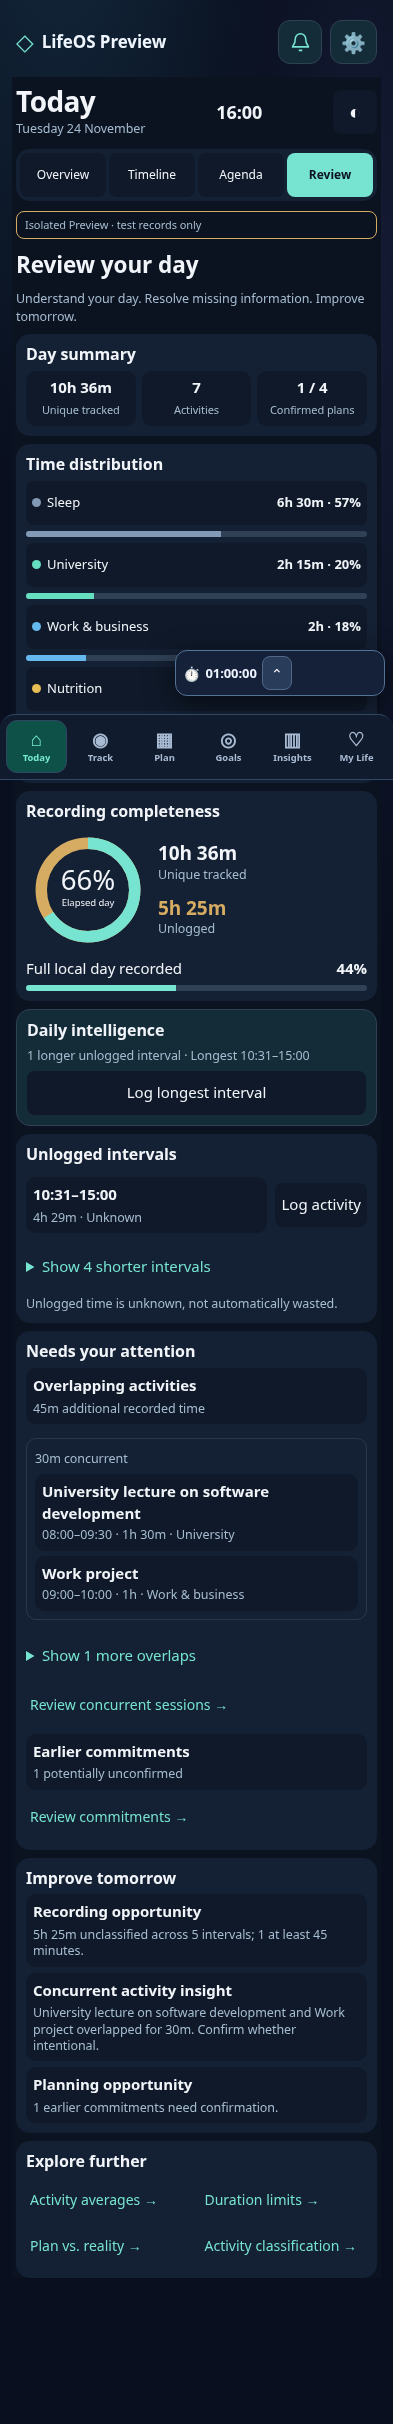
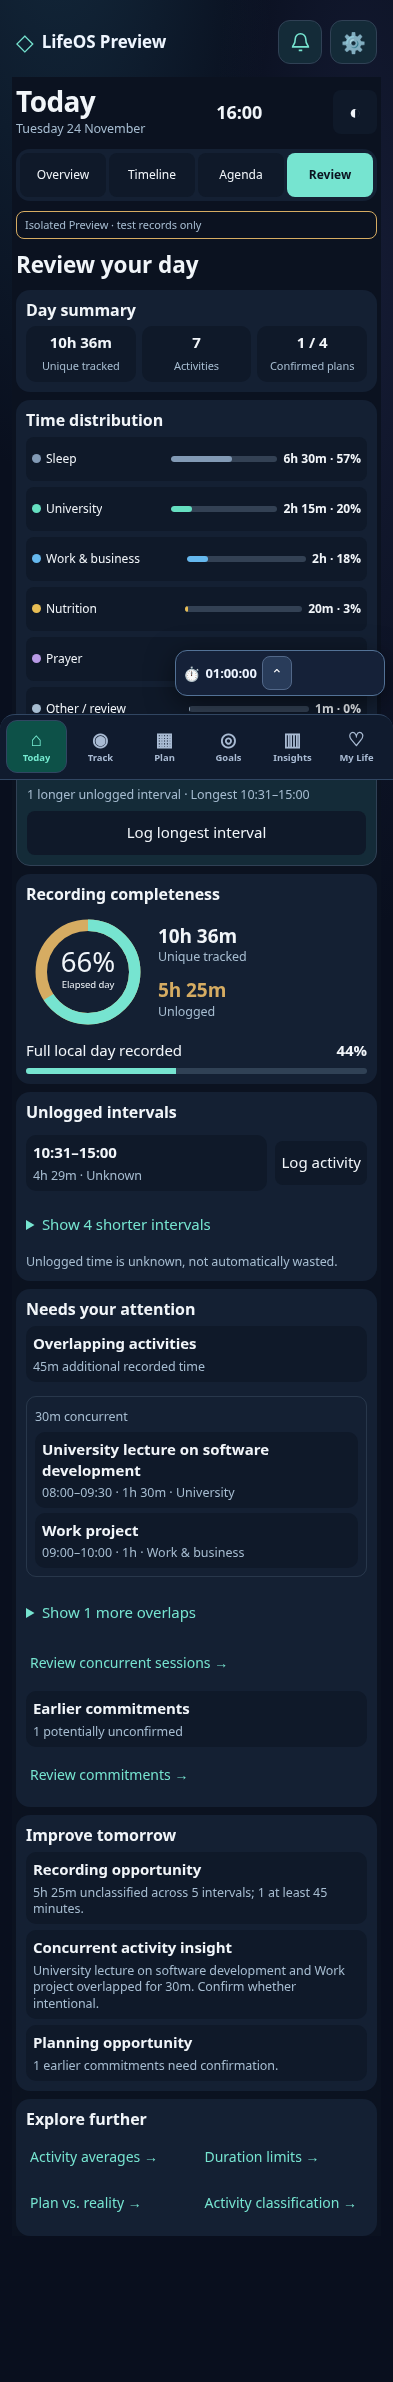
Make Today review categories compact and accessible

diff --git a/index.html b/index.html
@@ -5848,8 +5848,8 @@ function render(force=false){
  const agendaHabits=card('Habits today',row('Completed',dueHabits.filter(h=>habitChecks.has(String(h.id))).length+' / '+dueHabits.length)+(habitRows||item('No habits scheduled today',''))+'<p id="apHabitMessage" class="ap-v1-habit-message" role="status">'+esc(habitMessage)+'</p><button class="ap-link" type="button" data-ap-live-quick="habits">'+(dueHabits.length>3?'View all habits':'Open habits')+' →</button>');
  const activityCount=new Set(d.recorded.map(x=>String(x.id))).size;
  const reviewSummary=card('Day summary',grid([metric(dur(m.unique),'Unique tracked'),metric(String(activityCount),'Activities'),metric(todayPlans.length?confirmedPlans+' / '+todayPlans.length:'—','Confirmed plans')]));
- const reviewCategory=c=>'<button type="button" class="ap-v1-review-category" data-ap-live-reviewcat="'+esc(c.name)+'"><span><i style="background:'+(colors[c.name]||'#a6bcd0')+'"></i>'+esc(c.name)+'</span><strong>'+dur(c.durationMs)+' · '+Math.round(c.durationMs/m.total*100)+'%</strong></button><div class="ap-bar"><i style="width:'+(c.durationMs/m.total*100)+'%;background:'+(colors[c.name]||'#a6bcd0')+'"></i></div>';
- const reviewDistribution=card('Time distribution',(d.categories.slice(0,4).map(reviewCategory).join('')||item('No recorded activities',''))+(d.categories.length>4?'<details><summary>Show '+(d.categories.length-4)+' more categories</summary>'+d.categories.slice(4).map(reviewCategory).join('')+'</details>':''));
+ const reviewCategory=c=>{const color=colors[c.name]||'#a6bcd0',share=Math.round(c.durationMs/m.total*100),label=c.name+' · '+dur(c.durationMs)+' · '+share+'%';return '<button type="button" class="ap-v1-review-category" data-ap-live-reviewcat="'+esc(c.name)+'" aria-label="'+esc(label)+'"><span class="ap-v1-review-label" title="'+esc(c.name)+'"><i style="background:'+color+'"></i><span>'+esc(c.name)+'</span></span><span class="ap-v1-review-track" aria-hidden="true"><i style="width:'+(c.durationMs/m.total*100)+'%;background:'+color+'"></i></span><strong>'+dur(c.durationMs)+' · '+share+'%</strong></button>'};
+ const reviewDistribution=card('Time distribution',(d.categories.slice(0,6).map(reviewCategory).join('')||item('No recorded activities',''))+(d.categories.length>6?'<details><summary>Show '+(d.categories.length-6)+' more categories</summary>'+d.categories.slice(6).map(reviewCategory).join('')+'</details>':''));
  set(0,'<div class="ap-v1-pair">'+card('Day progress','<div class="ap-v1-day-summary">'+dayRing+'<div>'+metric(dur(m.elapsed),'Elapsed')+metric(dur(m.remaining),'Remaining')+'</div></div>')+glance+'</div><div class="ap-v1-current">'+nowCard+'</div><div class="ap-v1-pair">'+progress+distribution+'</div><div class="ap-v1-pair">'+lifeAreas+dailyIntel+'</div>'+quick+card('Your day, in four parts',grid(['Morning','Afternoon','Evening','Night'].map((n,i)=>'<button data-ap-live-part="'+i+'" class="'+(i===part?'ap-selected':'')+'"><span class="ap-part-icon">'+['☀','◐','☾','✦'][i]+'</span><strong>'+partRows[i].length+'</strong><small>'+n+'</small></button>'),'ap-four')+ (partRows[part].map(activity).join('')||item('No recorded activities','')))+card('Next on your agenda',future.slice(0,2).map(x=>row(esc(x.name),clock(x.startAt))).join('')||item('No upcoming commitments',''))+card('Your priorities',(tasks[0]?task(tasks[0]):item('No open tasks',''))+link('View tasks',2)));
  {
  const d=timelineSnapshot,m=d.metrics,p=pct(m.unique,m.dayLength),q=pct(m.unique,m.elapsed),active=d.active,first=active[0],next=timelineDayAt!==null?null:future[0],longest=d.gaps.reduce((a,b)=>!a||b.b-b.a>a.b-a.a?b:a,null);
@@ -5891,7 +5891,7 @@ function render(force=false){
  for(const x of list){if(free&&day===0&&x.startAt>cursor)journeyHtml+=journey('',dur(x.startAt-cursor)+' '+'unscheduled time',clock(cursor)+'–'+clock(x.startAt),true);journeyHtml+='<div class="ap-journey"><small>'+clock(x.startAt)+'</small>'+detail('<strong>'+esc(x.name)+'</strong><small>'+clock(x.startAt)+'–'+clock(x.endAt)+(x.startAt<cursor?' · Overlapping commitment':'')+'</small>','plan',x.id,x.startAt)+'</div>';cursor=Math.max(cursor,x.endAt)}
  if(free&&day===0&&cursor<d.end)journeyHtml+=journey('',dur(d.end-cursor)+' '+'unscheduled time',clock(cursor)+'–00:00',true);
  set(2,card('<span class="ap-kicker">NEXT UP</span>',next?'<h2>'+esc(next.name)+'</h2><small>'+clock(next.startAt)+'–'+clock(next.endAt)+' · In '+dur(next.startAt-d.at)+'</small>'+grid([action('Start now','start-plan',next.id),action('Remind me','reminder',next.id)],'ap-two'):item('No upcoming commitments',''),'ap-now')+agendaTasks+agendaHabits+card('Your upcoming journey','<label><input type="checkbox" data-ap-live-free '+(free?'checked':'')+'> Show unscheduled windows</label>'+grid(['Today','Tomorrow','Upcoming'].map((x,i)=>'<button data-ap-live-day="'+i+'" class="'+(day===i?'ap-selected':'')+'" aria-pressed="'+(day===i)+'">'+x+'</button>'))+(journeyHtml||item('No commitments',''))+nav('Open full calendar','schedule'))+card('Needs your attention',(overdueTasks[0]?task(overdueTasks[0]):item('No overdue tasks',''))+'<details><summary>Show '+Math.max(0,overdueTasks.length-1)+' more overdue tasks</summary>'+overdueTasks.slice(1).map(task).join('')+'</details><details><summary>Show '+otherOpenTasks.length+' other open tasks</summary>'+otherOpenTasks.map(task).join('')+'</details><details><summary>Earlier commitments · '+earlier.length+'</summary>'+earlier.map(x=>detail('<strong>'+esc(x.name)+'</strong><small>Unverified · '+clock(x.startAt)+'</small>','plan',x.id,x.startAt)).join('')+'</details>'));
- set(3,'<h2>Review your day</h2><small>Understand your day. Resolve missing information. Improve tomorrow.</small>'+reviewSummary+reviewDistribution+card('Recording completeness','<div class="ap-row"><svg style="width:124px" viewBox="0 0 130 130"><circle cx="65" cy="65" r="49" fill="none" stroke="#d6ac62" stroke-width="12"/><circle cx="65" cy="65" r="49" fill="none" stroke="var(--ap-accent)" stroke-width="12" pathLength="100" stroke-dasharray="'+q+' '+(100-q)+'" transform="rotate(-90 65 65)"/><text x="65" y="65" text-anchor="middle" font-size="29" fill="currentColor">'+q+'%</text><text x="65" y="82" text-anchor="middle" font-size="10" fill="currentColor">Elapsed day</text></svg><div class="ap-review-metrics">'+metric(dur(m.unique),'Unique tracked')+metric(dur(m.unlogged),'Unlogged')+'</div></div>'+row('Full local day recorded',p+'%')+'<div class="ap-bar"><i style="width:'+p+'%"></i></div>')+card('Daily intelligence','<small>'+intelligence+'</small>'+(longest?action('Log longest interval','gap',longest.a+':'+longest.b):''),'ap-now')+card('Unlogged intervals',long.map(gapItem).join('')+'<details><summary>Show '+(d.gaps.length-long.length)+' shorter intervals</summary>'+d.gaps.filter(g=>g.b-g.a<45*60000).map(gapItem).join('')+'</details><small>Unlogged time is unknown, not automatically wasted.</small>')+card('Needs your attention',item('Overlapping activities',dur(m.overlap)+' additional recorded time')+pairs.slice(0,1).map(z=>'<div class="ap-v250-overlap"><small>'+dur(z.ms)+' concurrent</small>'+activity(z.x)+activity(z.y)+'</div>').join('')+(pairs.length>1?'<details><summary>Show '+(pairs.length-1)+' more overlaps</summary>'+pairs.slice(1).map(z=>'<div class="ap-v250-overlap"><small>'+dur(z.ms)+' concurrent</small>'+activity(z.x)+activity(z.y)+'</div>').join('')+'</details>':'')+link('Review concurrent sessions',1)+item('Earlier commitments',earlier.length+' potentially unconfirmed')+link('Review commitments',2))+card('Improve tomorrow',item('Recording opportunity',longest?dur(m.unlogged)+' unclassified across '+d.gaps.length+' intervals; '+long.length+' at least 45 minutes.':'No missing interval detected.')+(pairs.length?item('Concurrent activity insight',esc(pairs[0].x.name)+' and '+esc(pairs[0].y.name)+' overlapped for '+dur(pairs[0].ms)+'. Confirm whether intentional.'):'')+item('Planning opportunity',earlier.length?earlier.length+' earlier commitments need confirmation.':'Insufficient confirmed plan-to-actual matches for a scheduling assessment.'))+card('Explore further','<div class="ap-v250-shortcuts">'+nav('Activity averages','analytics')+nav('Duration limits','analytics')+nav('Plan vs. reality','analytics')+nav('Activity classification','analytics')+'</div>'));
+ set(3,'<h2>Review your day</h2>'+reviewSummary+reviewDistribution+card('Daily intelligence','<small>'+intelligence+'</small>'+(longest?action('Log longest interval','gap',longest.a+':'+longest.b):''),'ap-now')+card('Recording completeness','<div class="ap-row"><svg style="width:124px" viewBox="0 0 130 130"><circle cx="65" cy="65" r="49" fill="none" stroke="#d6ac62" stroke-width="12"/><circle cx="65" cy="65" r="49" fill="none" stroke="var(--ap-accent)" stroke-width="12" pathLength="100" stroke-dasharray="'+q+' '+(100-q)+'" transform="rotate(-90 65 65)"/><text x="65" y="65" text-anchor="middle" font-size="29" fill="currentColor">'+q+'%</text><text x="65" y="82" text-anchor="middle" font-size="10" fill="currentColor">Elapsed day</text></svg><div class="ap-review-metrics">'+metric(dur(m.unique),'Unique tracked')+metric(dur(m.unlogged),'Unlogged')+'</div></div>'+row('Full local day recorded',p+'%')+'<div class="ap-bar"><i style="width:'+p+'%"></i></div>')+card('Unlogged intervals',long.map(gapItem).join('')+'<details><summary>Show '+(d.gaps.length-long.length)+' shorter intervals</summary>'+d.gaps.filter(g=>g.b-g.a<45*60000).map(gapItem).join('')+'</details><small>Unlogged time is unknown, not automatically wasted.</small>')+card('Needs your attention',item('Overlapping activities',dur(m.overlap)+' additional recorded time')+pairs.slice(0,1).map(z=>'<div class="ap-v250-overlap"><small>'+dur(z.ms)+' concurrent</small>'+activity(z.x)+activity(z.y)+'</div>').join('')+(pairs.length>1?'<details><summary>Show '+(pairs.length-1)+' more overlaps</summary>'+pairs.slice(1).map(z=>'<div class="ap-v250-overlap"><small>'+dur(z.ms)+' concurrent</small>'+activity(z.x)+activity(z.y)+'</div>').join('')+'</details>':'')+link('Review concurrent sessions',1)+item('Earlier commitments',earlier.length+' potentially unconfirmed')+link('Review commitments',2))+card('Improve tomorrow',item('Recording opportunity',longest?dur(m.unlogged)+' unclassified across '+d.gaps.length+' intervals; '+long.length+' at least 45 minutes.':'No missing interval detected.')+(pairs.length?item('Concurrent activity insight',esc(pairs[0].x.name)+' and '+esc(pairs[0].y.name)+' overlapped for '+dur(pairs[0].ms)+'. Confirm whether intentional.'):'')+item('Planning opportunity',earlier.length?earlier.length+' earlier commitments need confirmation.':'Insufficient confirmed plan-to-actual matches for a scheduling assessment.'))+card('Explore further','<div class="ap-v250-shortcuts">'+nav('Activity averages','analytics')+nav('Duration limits','analytics')+nav('Plan vs. reality','analytics')+nav('Activity classification','analytics')+'</div>'));
 }
 root.addEventListener('click',e=>{const detail=e.target.closest('[data-ap-detail]');if(detail){window.lifeosTrackOpenTodayItem?.(detail.dataset.apDetail,detail.dataset.apKey,Number(detail.dataset.apAt));return}const b=e.target.closest('button');if(!b)return;const x=b.dataset;if(x.apLiveReviewcat){selected=x.apLiveReviewcat;document.getElementById('apTab1')?.click();render(true);return}if(x.apLiveTask){openTask(x.apLiveTask);return}if(x.apLiveQuick){openQuick(x.apLiveQuick);return}if(x.apLiveAction){if(x.apLiveAction==='unknown')return;if(x.apLiveAction==='focus'){document.querySelector('#lifeosNavigation [data-view="tracking"]')?.click();setTimeout(()=>{const b=document.querySelector('#loTrackConceptA [data-ca-sheet="focus"]');if(b)b.click();else alert('Open Focus Mode from Track Live.');},150);return}if(x.apLiveAction==='finish'&&!confirm('Finish this activity?'))return;if(x.apLiveAction==='start-plan'&&!confirm('Start this planned activity now?'))return;const ok=window.lifeosTodayAPlusAction(x.apLiveAction,x.apLiveId);if(ok===null)return;if(!ok){if(x.apLiveAction==='gap'){let message=b.parentElement.querySelector('.ap-v250-gap-error');if(!message){message=document.createElement('small');message.className='ap-v250-gap-error';message.setAttribute('role','status');b.parentElement.append(message)}message.textContent='This interval changed. Select a remaining gap and try again.';return}alert('Action not saved. Existing records retained.');return}if(x.apLiveAction==='reminder')alert('Scheduled reminder enabled. Delivery depends on device permissions.');render(true);return}if(x.apLiveNav){document.querySelector('#lifeosNavigation [data-view="'+x.apLiveNav+'"]')?.click();return}if(x.apLivePart!==undefined)part=Number(x.apLivePart);else if(x.apLivePeriod!==undefined){if(x.apLivePeriod==='now'){timelineDayAt=null;period=null}else period=Number(x.apLivePeriod)}else if(x.apLiveDate!==undefined){const date=new Date(timelineDayAt??snapshot.start);date.setDate(date.getDate()+Number(x.apLiveDate));timelineDayAt=date.getTime()>=snapshot.start?null:date.getTime();period=null}else if(x.apLiveDay!==undefined)day=Number(x.apLiveDay);else if(x.apLiveCat!==undefined)selected=selected===x.apLiveCat?'':x.apLiveCat;else return;render(true)});
 root.addEventListener('keydown',e=>{const target=e.target.closest('svg [data-ap-detail]');if(target&&(e.key==='Enter'||e.key===' ')){e.preventDefault();target.dispatchEvent(new MouseEvent('click',{bubbles:true}))}});
@@ -5970,10 +5970,13 @@ body.ap-today #todayAPlus.ap-light .ap-v1-agenda-task input:checked{background:#
 body.ap-today #todayAPlus .ap-v1-agenda-task .ap-v1-done{text-decoration:line-through;color:var(--ap-muted)}
 body.ap-today #todayAPlus .ap-v1-agenda-task button{min-width:44px;font-size:20px}
 body.ap-today #todayAPlus .ap-v1-habit-message{margin:0;color:#ffb8bb;font-size:12px;line-height:1.4}body.ap-today #todayAPlus .ap-v1-habit-message:empty{display:none}body.ap-today #todayAPlus.ap-light .ap-v1-habit-message{color:#a12c35}
-body.ap-today #todayAPlus .ap-v1-review-category{display:flex;align-items:center;justify-content:space-between;gap:8px;min-width:0;text-align:left;font-size:13px}
-body.ap-today #todayAPlus .ap-v1-review-category span{display:flex;align-items:center;gap:6px;min-width:0}
-body.ap-today #todayAPlus .ap-v1-review-category span i{width:9px;height:9px;border-radius:50%;flex:none}
-body.ap-today #todayAPlus .ap-v1-review-category strong{white-space:nowrap}
+body.ap-today #todayAPlus .ap-v1-review-category{display:grid;grid-template-columns:minmax(74px,1fr) minmax(36px,.8fr) auto;align-items:center;gap:6px;min-width:0;min-height:44px;padding:4px 6px;text-align:left;font-size:12px}
+body.ap-today #todayAPlus .ap-v1-review-label{display:flex;align-items:center;gap:5px;min-width:0}
+body.ap-today #todayAPlus .ap-v1-review-label>i{width:9px;height:9px;border-radius:50%;flex:none}
+body.ap-today #todayAPlus .ap-v1-review-label>span{overflow:hidden;text-overflow:ellipsis;white-space:nowrap}
+body.ap-today #todayAPlus .ap-v1-review-track{display:block;min-width:0;height:6px;border-radius:8px;overflow:hidden;background:#52657a88}
+body.ap-today #todayAPlus .ap-v1-review-track>i{display:block;height:100%;border-radius:inherit}
+body.ap-today #todayAPlus .ap-v1-review-category strong{white-space:nowrap;font-size:12px}
 body.ap-today #todayAPlus .ap-v1-period-accounting{padding:9px;background:var(--ap-inset);border-radius:10px;display:grid;gap:6px}
 body.ap-today #todayAPlus .ap-v1-period-accounting>strong{font-size:13px}
 body.ap-today #todayAPlus .ap-v1-period-accounting .ap-grid{grid-template-columns:repeat(4,minmax(0,1fr));gap:4px}

diff --git a/docs/TESTING.md b/docs/TESTING.md
@@ -12,6 +12,7 @@ node tests/today-v250-colors.cjs
 node tests/today-v250-precision.cjs
 node tests/today-v250-volume.cjs
 TODAY_V1_CAPTURE=1 node tests/today-release-v1.cjs
+node tests/today-review-categories.cjs
 TODAY_AGENDA_CAPTURE=1 node tests/today-agenda-habits.cjs
 node tests/today-history-date.cjs
 TRACK_PERIOD_CAPTURE=1 node tests/track-calendar-periods.cjs
@@ -47,9 +48,11 @@ Browser tests cannot verify Samsung WebView system insets, native IME, gesture/t
 
 The Plan Concept A+ tests cover all four new subsection presentations, calendar views, individual activity details, task edits, recurring-series preview and approval, conflict revalidation, failed-storage rollback, reload persistence, aligned comparison windows and evidence cutoffs, paused time, DST recurrence rejection, empty and 132-record states, themes, navigation and reduced browser heights. Captures in `plan-verification/` are intercepted synthetic fixtures. See `docs/design/plan/COMPARISON.md` for visual differences and open device checks.
 
-The Today V1 fixture checks record-based overview values and navigation into existing editors, partial-period union accounting, category drill-down, proportional overlap lanes, short interval access, cancelled-plan exclusion, task completion and reload persistence, light mode and browser viewport clearance. With capture enabled it writes synthetic images under `docs/design/today/current/release-*.png`. Reference comparison notes and remaining discrepancies are in `docs/design/today/COMPARISON.md`.
+The Today V1 fixture checks record-based overview values and navigation into existing editors, partial-period union accounting, category drill-down, proportional overlap lanes, short interval access, cancelled-plan exclusion, task completion and reload persistence, light mode and browser viewport clearance. Review assertions verify category bars against raw duration, full accessible labels, touch target height, intelligence order and selected light-mode text contrast. With capture enabled it writes synthetic images under `docs/design/today/current/release-*.png`. Reference comparison notes and remaining discrepancies are in `docs/design/today/COMPARISON.md`.
 
 The Today Agenda habit fixture checks scheduled and unscheduled habits, completion and undo from Today and My Life, retention of linked evidence, opt-in automatic-check dismissal, stale and duplicate checks, failed checkpoint writes, reload persistence, light-mode controls and reduced browser heights. It uses only synthetic, offline records. `TODAY_AGENDA_CAPTURE=1` saves dark and light browser screenshots; it does not verify Android input or system insets.
+
+The synthetic Review category fixture checks an empty day and a ten-category day, including disclosure labels, raw-duration bar widths and individual category drill-down. The fixture does not connect to a real Preview account.
 
 The historical Today timeline test covers date-picker and previous/next-day navigation, future-date rejection, overnight session identity, full and partial gap logging on earlier days, a second writer invalidating a selected gap, exact local-midnight boundaries, reload persistence, restored Track History record clicks and correct overnight day-portion details, and 23-/25-hour days. Requests are intercepted and storage is synthetic.
 

diff --git a/docs/design/today/COMPARISON.md b/docs/design/today/COMPARISON.md
@@ -7,7 +7,7 @@ The supplied design screenshots are targets, with illustrative numbers. Current 
 | Overview | [Individual overview](reference/Overview.png) | [Viewport](current/release-overview.png) · [Full page](current/release-overview-full.png) · [Light](current/release-overview-light.png) | Paired day progress and glance cards, live controls, plan progress, distribution and quick actions are present. Life-area rows use saved activity, habit and routine evidence. The reference uses more compact controls and more iconography; scores with no defined evidence source are not invented. Extra bottom clearance is provided for the floating timer, which can still cover content while scrolling. |
 | Timeline | [Individual timeline](reference/Timeline.png) | [Viewport](current/release-timeline.png) · [Full page](current/release-timeline-full.png) · [Previous day](current/release-timeline-previous-day.png) | Category colors, proportional lanes, six-hour selector, accessible short-item list and selected-period accounting are present. Planned blocks use an outlined treatment; a browser date input and previous/next-day controls navigate recorded local days, and Now returns to the current day. The tighter reference layout and native Android date-picker behavior remain to be checked. |
 | Agenda | [Section board](reference/Full_section_board.png) | [Viewport](current/release-agenda.png) · [Full page](current/release-agenda-full.png) · Habit checklist [dark](current/release-agenda-habits-dark.png) and [light](current/release-agenda-habits-light.png) | Next commitment, task completion, upcoming journey and unverified commitments use real records. Scheduled habits can be checked and reviewed inline or opened in My Life; separate routine logs still use My Life. The board's integrated routine checklist and compact layout are not yet matched. |
-| Review | [Section board](reference/Full_section_board.png) | [Viewport](current/release-review.png) · [Full page](current/release-review-full.png) | Summary, category drill-down, unlogged review and concurrent activity details are present. The page remains longer than the reference and needs further layout refinement. |
+| Review | [Section board](reference/Full_section_board.png) | [Viewport](current/release-review.png) · [Light](current/release-review-light.png) · [Full page](current/release-review-full.png) | Summary, compact category bars and drill-down, unlogged review and concurrent activity details are present. Daily intelligence appears earlier. The page remains longer than the reference, and native presentation and complete light-theme contrast still need verification. |
 | Activity details | [Supporting board](reference/Supporting_screens.png) | [Current details](current/activity-details.png) | Existing V250 detail and correction controls are retained; compare its remaining differences during focused device review. |
 | Gap entry | [Supporting board](reference/Supporting_screens.png) | [Current gap form](current/gap-entry.png) | Existing partial/full gap workflow and validation are retained; this capture predates the V1 layout changes. |
 

diff --git a/docs/DEVELOPMENT_STATUS.md b/docs/DEVELOPMENT_STATUS.md
@@ -10,6 +10,8 @@ The in-progress Today V1 work connects the revised Overview, Agenda and Review t
 
 Today Agenda now offers an inline checklist for scheduled habits using the existing My Life habit store. Completing or undoing a check is explicit, stale and duplicate checks are rejected, and an undone check retains its existing evidence instead of deleting the record. A dismissed automatic check is not immediately recreated. Separate routine logs still use My Life and the broader Agenda layout does not yet match the compact board.
 
+Today Review now displays up to six category bars as compact accessible controls and moves Daily intelligence above the longer accounting details. Categories use raw recorded durations; the gap and concurrent-activity actions remain available. Browser screenshots and remaining visual differences are recorded in `docs/design/today/COMPARISON.md`.
+
 Track work is also in progress: Live now exposes compact session and daily-duration summaries, quick starts and concurrent-session controls using the existing tracking engine, including a visible two-step finish confirmation. History offers navigable local day/week/month/year/all-time and custom periods, data-based category charts and summaries, filtering and sorting while retaining the existing hierarchy and record details; Review uses local calendar-week and calendar-month filters. Synthetic browser evidence and remaining differences are documented in `docs/design/track/README.md` and `docs/KNOWN_ISSUES.md`; Track is not yet release-ready.
 
 Track Review now offers category and activity groupings using the shared classifier and Today colors. Each chart entry opens filtered History; an individual category correction uses the existing reviewed-activity save path and refreshes the analysis. It does not assign a category to unknown activities without evidence.
